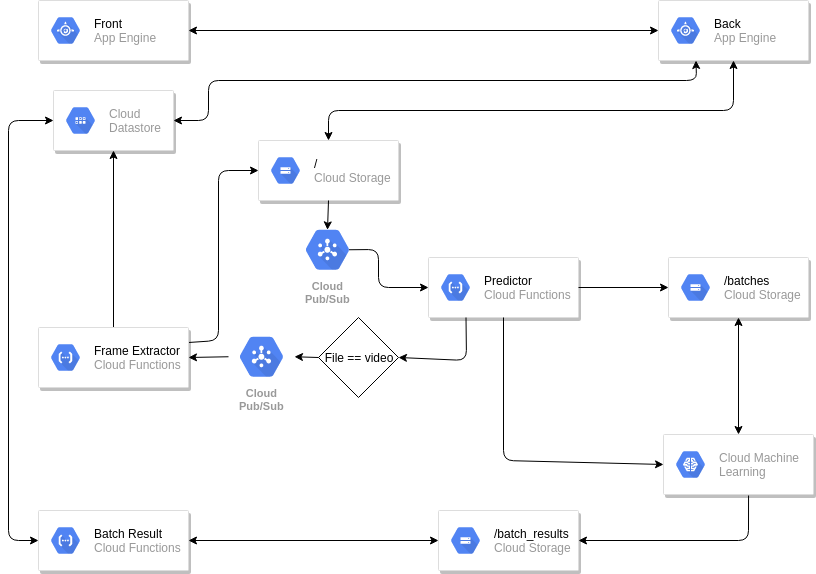
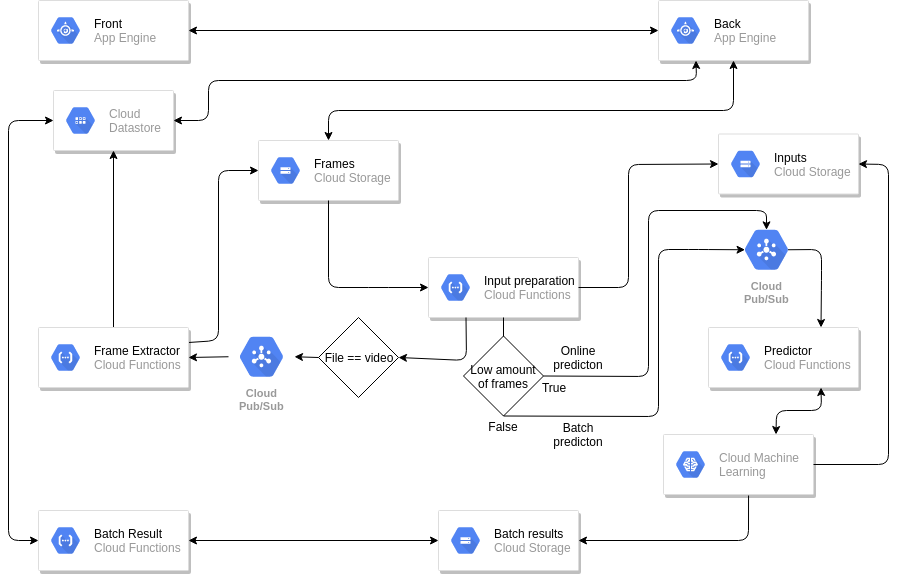
Update readme

diff --git a/README.md b/README.md
@@ -1,11 +1,17 @@
 # vision-client
 [![Open in Gitpod](https://gitpod.io/button/open-in-gitpod.svg)](https://gitpod.io/#https://github.com/louis030195/vision-client)
 
+# Front end
 <img src="docs/images/example.png" width="600" height="300">
 
-# Objective
+# Pipeline
 
 <img src="docs/images/gcp_pipelinev4.png" width="600" height="400">
+
+# Performances
+
+<img src="docs/images/10k_job.png" width="600" height="400">
+
 
 # Installation
 Work with:
